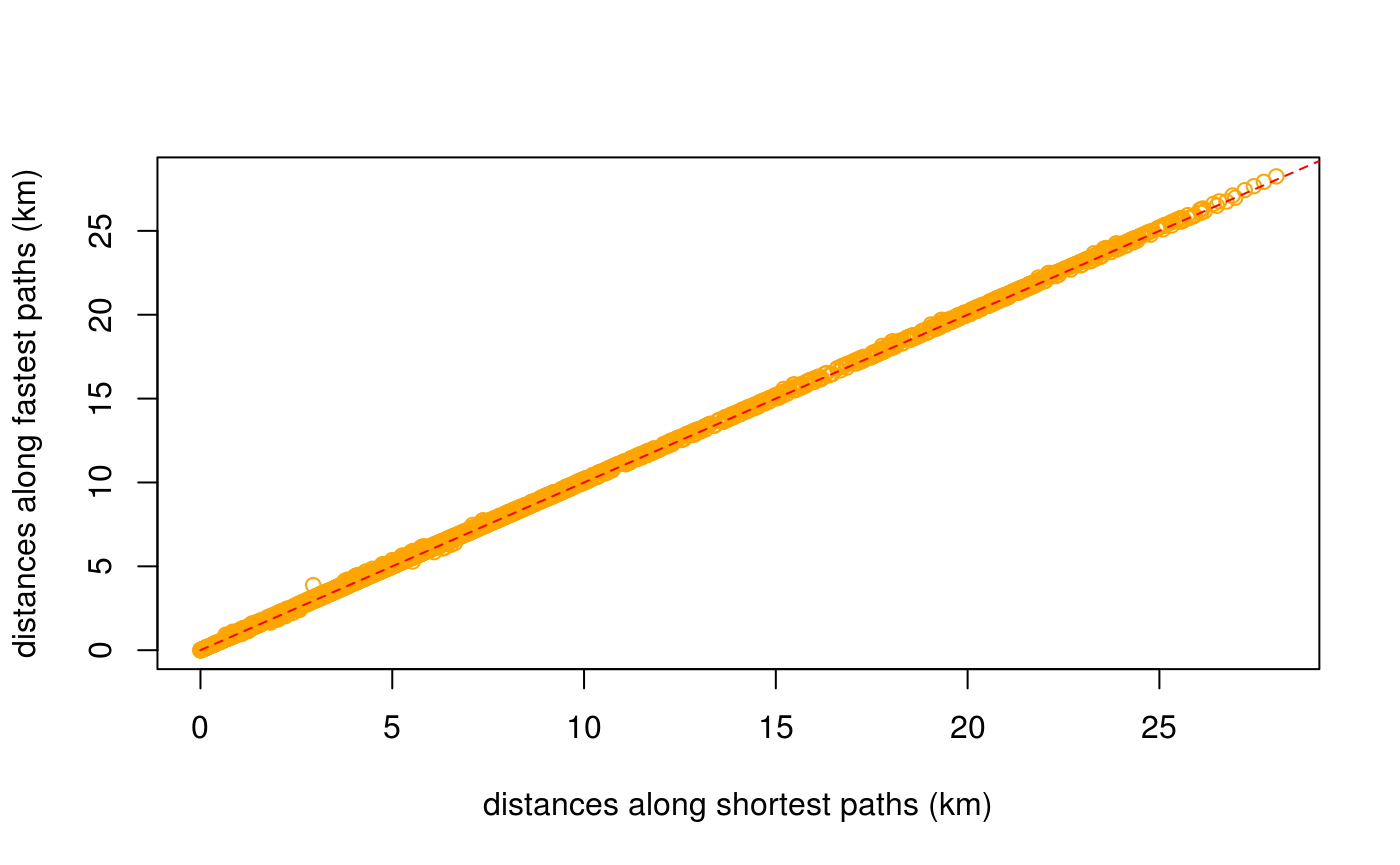
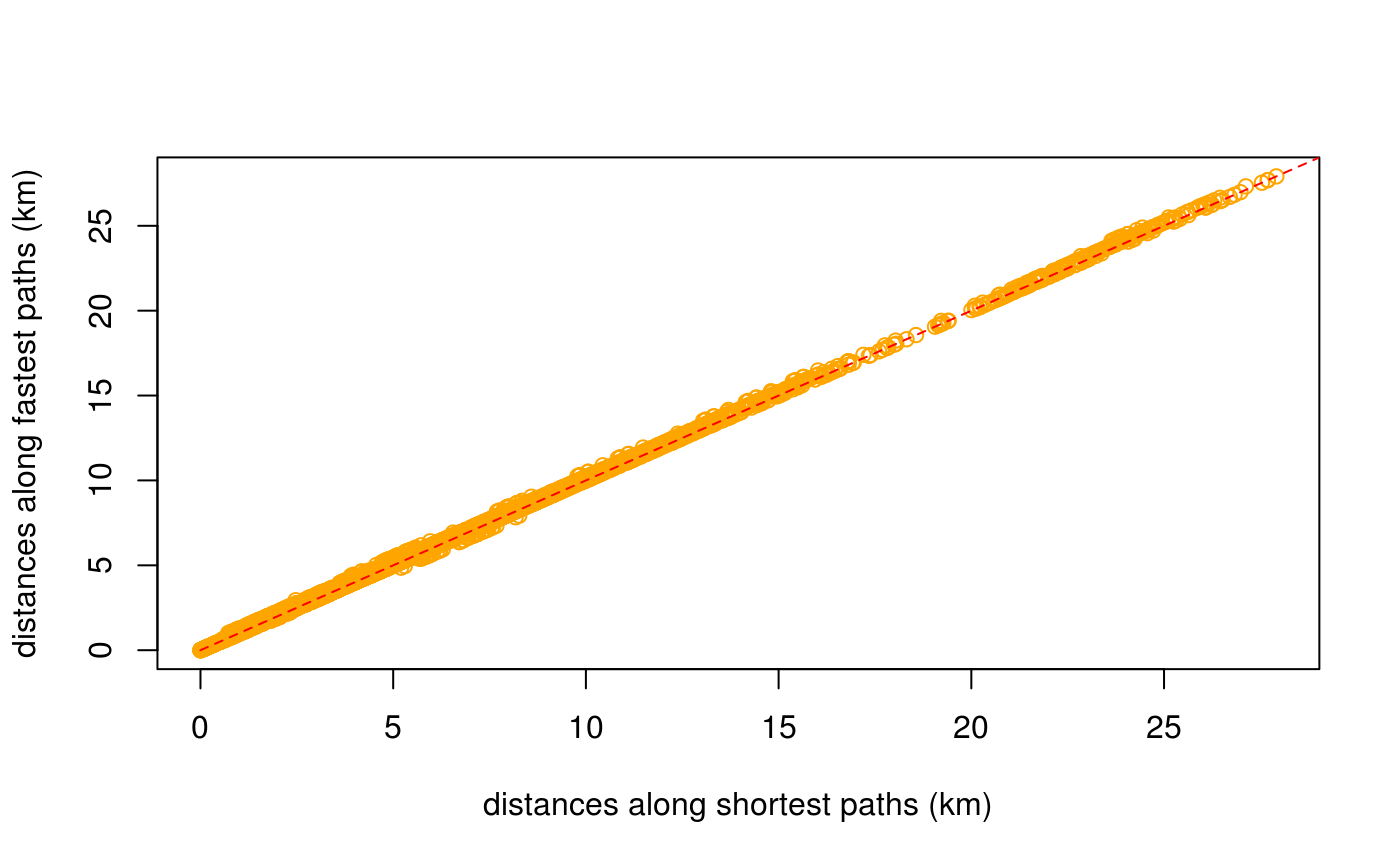
Built site for dodgr: 0.1.4.3@4a1292a

diff --git a/articles/dodgr.html b/articles/dodgr.html
@@ -343,7 +343,7 @@ Figure 2: A <strong>dual</strong>-weighted, directed graph in which the weights 
 <p>The <code>dodgr</code> packages includes a function to select a random connected portion of graph including a specified number of vertices. This function is used in the <code><a href="../reference/compare_heaps.html">compare_heaps()</a></code> function described below, but is also useful for general statistical analyses of large graphs which may otherwise take too long to compute.</p>
 <div class="sourceCode" id="cb59"><pre class="sourceCode r"><code class="sourceCode r"><a class="sourceLine" id="cb59-1" data-line-number="1">graph_sub &lt;-<span class="st"> </span><span class="kw"><a href="../reference/dodgr_sample.html">dodgr_sample</a></span> (graph, <span class="dt">nverts =</span> <span class="dv">100</span>)</a>
 <a class="sourceLine" id="cb59-2" data-line-number="2"><span class="kw"><a href="https://www.rdocumentation.org/packages/base/topics/nrow">nrow</a></span> (graph_sub)</a></code></pre></div>
-<pre><code>## [1] 197</code></pre>
+<pre><code>## [1] 215</code></pre>
 <p>The random sample has around twice as many edges as vertices, in accordance with the statistics calculated above.</p>
 <div class="sourceCode" id="cb61"><pre class="sourceCode r"><code class="sourceCode r"><a class="sourceLine" id="cb61-1" data-line-number="1"><span class="kw"><a href="https://www.rdocumentation.org/packages/base/topics/nrow">nrow</a></span> (<span class="kw"><a href="../reference/dodgr_vertices.html">dodgr_vertices</a></span> (graph_sub))</a></code></pre></div>
 <pre><code>## [1] 100</code></pre>
@@ -421,30 +421,30 @@ Figure 2: A <strong>dual</strong>-weighted, directed graph in which the weights 
 <div class="sourceCode" id="cb77"><pre class="sourceCode r"><code class="sourceCode r"><a class="sourceLine" id="cb77-1" data-line-number="1"><span class="kw"><a href="../reference/compare_heaps.html">compare_heaps</a></span> (graph, <span class="dt">nverts =</span> <span class="dv">100</span>, <span class="dt">replications =</span> <span class="dv">1</span>)</a></code></pre></div>
 <pre><code>##                                                                                   test
 ## 12                  d &lt;- igraph::distances(igr, v = from_id, to = to_id, mode = "out")
-## 5                 d &lt;- dodgr_dists(graph, from = from_id, to = to_id, heap = "Heap23")
 ## 6       d &lt;- dodgr_dists(graph_contracted, from = from_id, to = to_id, heap = "BHeap")
 ## 7       d &lt;- dodgr_dists(graph_contracted, from = from_id, to = to_id, heap = "FHeap")
 ## 8     d &lt;- dodgr_dists(graph_contracted, from = from_id, to = to_id, heap = "TriHeap")
 ## 9  d &lt;- dodgr_dists(graph_contracted, from = from_id, to = to_id, heap = "TriHeapExt")
 ## 10     d &lt;- dodgr_dists(graph_contracted, from = from_id, to = to_id, heap = "Heap23")
 ## 11        d &lt;- dodgr_dists(graph_contracted, from = from_id, to = to_id, heap = "set")
-## 4             d &lt;- dodgr_dists(graph, from = from_id, to = to_id, heap = "TriHeapExt")
-## 1                  d &lt;- dodgr_dists(graph, from = from_id, to = to_id, heap = "BHeap")
+## 5                 d &lt;- dodgr_dists(graph, from = from_id, to = to_id, heap = "Heap23")
 ## 2                  d &lt;- dodgr_dists(graph, from = from_id, to = to_id, heap = "FHeap")
 ## 3                d &lt;- dodgr_dists(graph, from = from_id, to = to_id, heap = "TriHeap")
+## 4             d &lt;- dodgr_dists(graph, from = from_id, to = to_id, heap = "TriHeapExt")
+## 1                  d &lt;- dodgr_dists(graph, from = from_id, to = to_id, heap = "BHeap")
 ##    replications elapsed relative user.self sys.self user.child sys.child
 ## 12            1   0.001        1     0.004        0          0         0
-## 5             1   0.002        2     0.004        0          0         0
 ## 6             1   0.002        2     0.000        0          0         0
 ## 7             1   0.002        2     0.004        0          0         0
-## 8             1   0.002        2     0.004        0          0         0
-## 9             1   0.002        2     0.000        0          0         0
+## 8             1   0.002        2     0.000        0          0         0
+## 9             1   0.002        2     0.004        0          0         0
 ## 10            1   0.002        2     0.004        0          0         0
-## 11            1   0.002        2     0.004        0          0         0
-## 4             1   0.003        3     0.004        0          0         0
-## 1             1   0.004        4     0.004        0          0         0
+## 11            1   0.002        2     0.000        0          0         0
+## 5             1   0.003        3     0.000        0          0         0
 ## 2             1   0.004        4     0.004        0          0         0
-## 3             1   0.004        4     0.004        0          0         0</code></pre>
+## 3             1   0.004        4     0.004        0          0         0
+## 4             1   0.004        4     0.000        0          0         0
+## 1             1   0.005        5     0.008        0          0         0</code></pre>
 <p>The key column of that <code>data.frame</code> is <code>relative</code>, which quantifies the relative performance of each test in relation to the best which is given a score of 1. <code>dodgr</code> using the default <code>heap = "BHeap"</code>, which is a binary heap priority queue, performs faster than <code>igraph</code> <span class="citation">(Csardi and Nepusz 2006)</span> for these graphs. Different kind of graphs will perform differently with different priority queue structures, and this function enables users to empirically discern the optimal heap for their kind of graph.</p>
 <p>Note, however, that this is not an entirely fair comparison, because <code>dodgr</code> calculates dual-weighted distances, whereas <code>igraph</code>—and indeed all other <strong>R</strong> packages—only directly calculate distances based on a single set of weights. Implementing dual-weighted routing in these cases requires explicitly re-tracing all paths and summing the second set of weights along each path. A time comparison in that case would be very strongly in favour of <code>dodgr</code>. Moreover, <code>dodgr</code> can convert graphs to contracted form through removing redundant vertices, as detailed in the following section. Doing so greatly improves performance with respect to <code>igraph</code>.</p>
 <p>For those wishing to do explicit comparisons themselves, the following code generates the <code>igraph</code> equivalent of <code><a href="../reference/dodgr_dists.html">dodgr_dists()</a></code>, although of course for single-weighted graphs only:</p>
@@ -497,11 +497,11 @@ Figure 3: <strong>(A)</strong> Vertex#2 is redundant for routing calculations fr
 <pre><code>## [1] 672</code></pre>
 <div class="sourceCode" id="cb89"><pre class="sourceCode r"><code class="sourceCode r"><a class="sourceLine" id="cb89-1" data-line-number="1">verts &lt;-<span class="st"> </span><span class="kw"><a href="https://www.rdocumentation.org/packages/base/topics/sample">sample</a></span> (<span class="kw"><a href="../reference/dodgr_vertices.html">dodgr_vertices</a></span> (graph)<span class="op">$</span>id, <span class="dt">size =</span> <span class="dv">100</span>)</a>
 <a class="sourceLine" id="cb89-2" data-line-number="2"><span class="kw"><a href="https://www.rdocumentation.org/packages/utils/topics/head">head</a></span> (verts) <span class="co"># a character vector</span></a></code></pre></div>
-<pre><code>## [1] "3697938720" "1143452159" "1376768467" "339318487"  "1427594112"
-## [6] "2398958027"</code></pre>
+<pre><code>## [1] "677638770"  "2627436881" "1143452159" "2398957641" "977490073" 
+## [6] "1376768352"</code></pre>
 <div class="sourceCode" id="cb91"><pre class="sourceCode r"><code class="sourceCode r"><a class="sourceLine" id="cb91-1" data-line-number="1">grc &lt;-<span class="st"> </span><span class="kw"><a href="../reference/dodgr_contract_graph.html">dodgr_contract_graph</a></span> (graph, verts)</a>
 <a class="sourceLine" id="cb91-2" data-line-number="2"><span class="kw"><a href="https://www.rdocumentation.org/packages/base/topics/nrow">nrow</a></span> (grc)</a></code></pre></div>
-<pre><code>## [1] 854</code></pre>
+<pre><code>## [1] 856</code></pre>
 <p>Retaining the nominated vertices yields a graph with considerably more edges than the fully contracted graph excluding these vertices. The <code><a href="../reference/dodgr_dists.html">dodgr_dists()</a></code> function can be applied to the latter graph to obtain accurate distances precisely routed between these points, yet using the speed advantages of graph contraction.</p>
 </div>
 </div>
@@ -542,29 +542,19 @@ Figure 3: <strong>(A)</strong> Vertex#2 is redundant for routing calculations fr
 <pre><code>## [1] 10</code></pre>
 <p>The result (<code>dp</code>) is a list of 10 items, each of which contains 5 vectors. An example is,</p>
 <div class="sourceCode" id="cb98"><pre class="sourceCode r"><code class="sourceCode r"><a class="sourceLine" id="cb98-1" data-line-number="1">dp [[<span class="dv">1</span>]] [[<span class="dv">1</span>]]</a></code></pre></div>
-<pre><code>##  [1] "1143452220" "1143452396" "977490089"  "1143452544" "1143452159"
-##  [6] "1143452278" "977490059"  "1143452367" "1143452068" "977490136" 
-## [11] "2627444774" "571423170"  "2627444775" "3921514718" "571423169" 
-## [16] "571423164"  "571423157"  "2627444773" "2627444772" "2627444771"
-## [21] "571423824"  "571423823"  "571423821"  "571423820"  "1143452467"
-## [26] "2627444770" "571423819"  "1143452332" "571423818"  "571423815" 
-## [31] "571423809"  "1143452536" "1143452116" "571423799"  "1143452264"
-## [36] "571423793"  "2627444769" "571423788"  "571423786"  "571423785" 
-## [41] "571423784"  "571423783"  "571423782"  "571423781"  "571423780" 
-## [46] "2632626808" "5358983987" "5358983989" "2632626787" "2632626794"
-## [51] "571423776"  "571423775"  "571423774"  "571423773"  "571423772" 
-## [56] "571423771"  "571423770"</code></pre>
+<pre><code>##  [1] "339574316"  "339574317"  "3456932072" "3456932071" "3456932070"
+##  [6] "2627477679" "2627477677" "2627477680" "2627477681" "4474520825"</code></pre>
 <p>For spatial graphs, the coordinates of these paths can be obtained by extracting the vertices with <code><a href="../reference/dodgr_vertices.html">dodgr_vertices()</a></code> and matching the vertex IDs:</p>
 <div class="sourceCode" id="cb100"><pre class="sourceCode r"><code class="sourceCode r"><a class="sourceLine" id="cb100-1" data-line-number="1">verts &lt;-<span class="st"> </span><span class="kw"><a href="../reference/dodgr_vertices.html">dodgr_vertices</a></span> (graph)</a>
 <a class="sourceLine" id="cb100-2" data-line-number="2">path1 &lt;-<span class="st"> </span>verts [<span class="kw"><a href="https://www.rdocumentation.org/packages/base/topics/match">match</a></span> (dp [[<span class="dv">1</span>]] [[<span class="dv">1</span>]], verts<span class="op">$</span>id), ]</a>
 <a class="sourceLine" id="cb100-3" data-line-number="3"><span class="kw"><a href="https://www.rdocumentation.org/packages/utils/topics/head">head</a></span> (path1)</a></code></pre></div>
 <pre><code>##              id        x        y component    n
-## 2132 1143452220 76.47008 15.35351         2 1079
-## 2134 1143452396 76.47013 15.35351         2 1080
-## 2136  977490089 76.47009 15.35345         2 1081
-## 2138 1143452544 76.47001 15.35338         2 1082
-## 2140 1143452159 76.46991 15.35333         2 1083
-## 2142 1143452278 76.46981 15.35322         2 1084</code></pre>
+## 482   339574316 76.46063 15.33360         1  244
+## 484   339574317 76.46078 15.33337         1  245
+## 4706 3456932072 76.46095 15.33320         1 2336
+## 4704 3456932071 76.46135 15.33298         1 2335
+## 4198 3456932070 76.46138 15.33281         1 2097
+## 4200 2627477679 76.46149 15.33284         1 2098</code></pre>
 <p>Paths calculated on contracted graphs will of course have fewer vertices than those calculated on full graphs.</p>
 </div>
 <div id="aggregated-flows" class="section level1">
@@ -608,7 +598,7 @@ Figure 3: <strong>(A)</strong> Vertex#2 is redundant for routing calculations fr
 <p>Most flows are zero because they have only been calculated between very few points in the graph.</p>
 <div class="sourceCode" id="cb105"><pre class="sourceCode r"><code class="sourceCode r"><a class="sourceLine" id="cb105-1" data-line-number="1"><span class="kw"><a href="https://www.rdocumentation.org/packages/base/topics/summary">summary</a></span> (graph_f<span class="op">$</span>flow)</a></code></pre></div>
 <pre><code>##    Min. 1st Qu.  Median    Mean 3rd Qu.    Max. 
-##   0.000   0.000   0.000   3.458   0.000  41.840</code></pre>
+##   0.000   0.000   0.000   4.725   0.000  75.935</code></pre>
 </div>
 <div id="flow-dispersal" class="section level2">
 <h2 class="hasAnchor">
@@ -618,7 +608,7 @@ Figure 3: <strong>(A)</strong> Vertex#2 is redundant for routing calculations fr
 <a class="sourceLine" id="cb107-2" data-line-number="2">graph_f &lt;-<span class="st"> </span><span class="kw"><a href="../reference/dodgr_flows_disperse.html">dodgr_flows_disperse</a></span> (graph, <span class="dt">from =</span> from, <span class="dt">dens =</span> dens)</a>
 <a class="sourceLine" id="cb107-3" data-line-number="3"><span class="kw"><a href="https://www.rdocumentation.org/packages/base/topics/summary">summary</a></span> (graph_f<span class="op">$</span>flow)</a></code></pre></div>
 <pre><code>##      Min.   1st Qu.    Median      Mean   3rd Qu.      Max. 
-## 0.000e+00 0.000e+00 0.000e+00 2.134e-06 0.000e+00 6.685e-03</code></pre>
+## 0.000e+00 0.000e+00 0.000e+00 1.904e-05 0.000e+00 6.037e-02</code></pre>
 </div>
 <div id="merging-directed-flows" class="section level2">
 <h2 class="hasAnchor">
@@ -628,7 +618,7 @@ Figure 3: <strong>(A)</strong> Vertex#2 is redundant for routing calculations fr
 <p>Resultant graphs produced by <code><a href="../reference/merge_directed_flows.html">merge_directed_flows()</a></code> only include those edges having non-zero flows, and so:</p>
 <div class="sourceCode" id="cb110"><pre class="sourceCode r"><code class="sourceCode r"><a class="sourceLine" id="cb110-1" data-line-number="1"><span class="kw"><a href="https://www.rdocumentation.org/packages/base/topics/nrow">nrow</a></span> (graph_f); <span class="kw"><a href="https://www.rdocumentation.org/packages/base/topics/nrow">nrow</a></span> (graph_undir) <span class="co"># the latter is much smaller</span></a></code></pre></div>
 <pre><code>## [1] 5973</code></pre>
-<pre><code>## [1] 1799</code></pre>
+<pre><code>## [1] 1845</code></pre>
 <p>The resultant graph can readily be merged with the original graph to regain the original data on vertex coordinates through</p>
 <div class="sourceCode" id="cb113"><pre class="sourceCode r"><code class="sourceCode r"><a class="sourceLine" id="cb113-1" data-line-number="1">graph &lt;-<span class="st"> </span>graph [graph_undir<span class="op">$</span>edge_id, ]</a>
 <a class="sourceLine" id="cb113-2" data-line-number="2">graph<span class="op">$</span>flow &lt;-<span class="st"> </span>graph_undir<span class="op">$</span>flow</a></code></pre></div>

diff --git a/articles/times.html b/articles/times.html
@@ -233,11 +233,11 @@ Figure 1: Graph modification to account for turn angles, which introduces the ad
 <p><img src="times_files/figure-html/shortest-vs-fastest-1.png" width="700"></p>
 <p>The average distance between the two (in metres) is:</p>
 <div class="sourceCode" id="cb11"><pre class="sourceCode r"><code class="sourceCode r"><a class="sourceLine" id="cb11-1" data-line-number="1"><span class="kw"><a href="https://www.rdocumentation.org/packages/base/topics/mean">mean</a></span> (<span class="kw"><a href="https://www.rdocumentation.org/packages/base/topics/MathFun">abs</a></span> (d_time <span class="op">-</span><span class="st"> </span>d_dist), <span class="dt">na.rm =</span> <span class="ot">TRUE</span>)</a></code></pre></div>
-<pre><code>## [1] 45.03473</code></pre>
+<pre><code>## [1] 50.63347</code></pre>
 <p>The plot reveals that shortest distances are indeed somewhat shorter than distances along fastest paths, but also that some fastest paths are actually shorter than shortest paths:</p>
 <div class="sourceCode" id="cb13"><pre class="sourceCode r"><code class="sourceCode r"><a class="sourceLine" id="cb13-1" data-line-number="1">index &lt;-<span class="st"> </span><span class="kw"><a href="https://www.rdocumentation.org/packages/base/topics/which">which</a></span> (<span class="op">!</span><span class="kw"><a href="https://www.rdocumentation.org/packages/base/topics/NA">is.na</a></span> (d_time) <span class="op">&amp;</span><span class="st"> </span><span class="op">!</span><span class="kw"><a href="https://www.rdocumentation.org/packages/base/topics/NA">is.na</a></span> (d_dist))</a>
 <a class="sourceLine" id="cb13-2" data-line-number="2"><span class="kw"><a href="https://www.rdocumentation.org/packages/base/topics/length">length</a></span> (<span class="kw"><a href="https://www.rdocumentation.org/packages/base/topics/which">which</a></span> (d_time [index] <span class="op">&lt;</span><span class="st"> </span>d_dist [index])) <span class="op">/</span><span class="st"> </span><span class="kw"><a href="https://www.rdocumentation.org/packages/base/topics/length">length</a></span> (index)</a></code></pre></div>
-<pre><code>## [1] 0.01075458</code></pre>
+<pre><code>## [1] 0.02341832</code></pre>
 <p>While <code>dodgr</code> and indeed all routing engines attempt to maximally reconcile differences between fastest and shortest routes, there nevertheless remain important discrepancies. Foremost among these, and the primary reason why some fastest routes may in fact be shorter than shortest routes, is that fastest routes allocate preferences for different kinds of way based both on the <code>value</code> column in the <code>weighting_profiles$weighting_profiles</code> table illustrated above, and on the actual maximum speed of a given edge, which itself may be a combination of maximum speeds as specified in OSM itself, maximum speeds from the <code>weighting_profiles$weighting_profiles</code> table, or values specific to a given surface. The result is that some unique combination of maximum speeds along a network may lead to <em>fastest</em> routes being preferentially directed along a path that is actually shorter than the direct shortest path which is calculated independent of maximum speed values.</p>
 <p>Such discrepancies are important in understanding differences in routes <em>times</em> calculated along shortest versus fastest paths. These times can be calculated (in seconds) with the <a href="https://atfutures.github.io/dodgr/reference/dodgr_times.html"><code><a href="../reference/dodgr_times.html">dodgr_times()</a></code></a> function:</p>
 <div class="sourceCode" id="cb15"><pre class="sourceCode r"><code class="sourceCode r"><a class="sourceLine" id="cb15-1" data-line-number="1">t_dist &lt;-<span class="st"> </span><span class="kw"><a href="../reference/dodgr_times.html">dodgr_times</a></span> (graph, <span class="dt">from =</span> from, <span class="dt">to =</span> to, <span class="dt">shortest =</span> <span class="ot">TRUE</span>) <span class="co"># default</span></a>
@@ -248,11 +248,11 @@ Figure 1: Graph modification to account for turn angles, which introduces the ad
 <a class="sourceLine" id="cb15-6" data-line-number="6"><span class="kw"><a href="https://www.rdocumentation.org/packages/graphics/topics/lines">lines</a></span> (<span class="dv">0</span><span class="op">:</span><span class="dv">100</span>, <span class="dv">0</span><span class="op">:</span><span class="dv">100</span>, <span class="dt">col =</span> <span class="st">"red"</span>, <span class="dt">lty =</span> <span class="dv">2</span>)</a></code></pre></div>
 <p><img src="times_files/figure-html/shortest-vs-fastest-times-1.png" width="700"></p>
 <div class="sourceCode" id="cb16"><pre class="sourceCode r"><code class="sourceCode r"><a class="sourceLine" id="cb16-1" data-line-number="1"><span class="kw"><a href="https://www.rdocumentation.org/packages/base/topics/mean">mean</a></span> (<span class="kw"><a href="https://www.rdocumentation.org/packages/base/topics/MathFun">abs</a></span> (t_time <span class="op">-</span><span class="st"> </span>t_dist), <span class="dt">na.rm =</span> <span class="ot">TRUE</span>)</a></code></pre></div>
-<pre><code>## [1] 41.86555</code></pre>
+<pre><code>## [1] 50.12588</code></pre>
 <p>As above, times along fastest paths are generally less than times along shortest paths, although there are again a few exceptions:</p>
 <div class="sourceCode" id="cb18"><pre class="sourceCode r"><code class="sourceCode r"><a class="sourceLine" id="cb18-1" data-line-number="1">index &lt;-<span class="st"> </span><span class="kw"><a href="https://www.rdocumentation.org/packages/base/topics/which">which</a></span> (<span class="op">!</span><span class="kw"><a href="https://www.rdocumentation.org/packages/base/topics/NA">is.na</a></span> (t_time) <span class="op">&amp;</span><span class="st"> </span><span class="op">!</span><span class="kw"><a href="https://www.rdocumentation.org/packages/base/topics/NA">is.na</a></span> (t_dist))</a>
 <a class="sourceLine" id="cb18-2" data-line-number="2"><span class="kw"><a href="https://www.rdocumentation.org/packages/base/topics/length">length</a></span> (<span class="kw"><a href="https://www.rdocumentation.org/packages/base/topics/which">which</a></span> (t_dist [index] <span class="op">&lt;</span><span class="st"> </span>t_time [index])) <span class="op">/</span><span class="st"> </span><span class="kw"><a href="https://www.rdocumentation.org/packages/base/topics/length">length</a></span> (index)</a></code></pre></div>
-<pre><code>## [1] 0.01251763</code></pre>
+<pre><code>## [1] 0.02870633</code></pre>
 <p>These results demonstrate how the combination of the <a href="https://atfutures.github.io/dodgr/reference/dodgr_distances.html"><code><a href="../reference/dodgr_distances.html">dodgr_distances()</a></code></a> and <a href="https://atfutures.github.io/dodgr/reference/dodgr_times.html"><code><a href="../reference/dodgr_times.html">dodgr_times()</a></code></a> functions enable calculation of both distances and times along both shortest and fastest paths.</p>
 <div id="time-based-paths-and-flow-aggregation" class="section level2">
 <h2 class="hasAnchor">

diff --git a/reference/compare_heaps.html b/reference/compare_heaps.html
@@ -155,30 +155,30 @@ fair comparisons, run only once or re-start the current R session.</p>
     <pre class="examples"><div class='input'><span class='no'>graph</span> <span class='kw'>&lt;-</span> <span class='fu'><a href='weight_streetnet.html'>weight_streetnet</a></span> (<span class='no'>hampi</span>)
 <span class='fu'>compare_heaps</span> (<span class='no'>graph</span>, <span class='kw'>nverts</span> <span class='kw'>=</span> <span class='fl'>1000</span>, <span class='kw'>replications</span> <span class='kw'>=</span> <span class='fl'>1</span>)</div><div class='output co'>#&gt;                                                                                   test
 #&gt; 6       d &lt;- dodgr_dists(graph_contracted, from = from_id, to = to_id, heap = "BHeap")
+#&gt; 10     d &lt;- dodgr_dists(graph_contracted, from = from_id, to = to_id, heap = "Heap23")
 #&gt; 11        d &lt;- dodgr_dists(graph_contracted, from = from_id, to = to_id, heap = "set")
 #&gt; 7       d &lt;- dodgr_dists(graph_contracted, from = from_id, to = to_id, heap = "FHeap")
 #&gt; 8     d &lt;- dodgr_dists(graph_contracted, from = from_id, to = to_id, heap = "TriHeap")
-#&gt; 10     d &lt;- dodgr_dists(graph_contracted, from = from_id, to = to_id, heap = "Heap23")
 #&gt; 9  d &lt;- dodgr_dists(graph_contracted, from = from_id, to = to_id, heap = "TriHeapExt")
 #&gt; 12                  d &lt;- igraph::distances(igr, v = from_id, to = to_id, mode = "out")
 #&gt; 1                  d &lt;- dodgr_dists(graph, from = from_id, to = to_id, heap = "BHeap")
 #&gt; 2                  d &lt;- dodgr_dists(graph, from = from_id, to = to_id, heap = "FHeap")
-#&gt; 3                d &lt;- dodgr_dists(graph, from = from_id, to = to_id, heap = "TriHeap")
 #&gt; 5                 d &lt;- dodgr_dists(graph, from = from_id, to = to_id, heap = "Heap23")
+#&gt; 3                d &lt;- dodgr_dists(graph, from = from_id, to = to_id, heap = "TriHeap")
 #&gt; 4             d &lt;- dodgr_dists(graph, from = from_id, to = to_id, heap = "TriHeapExt")
 #&gt;    replications elapsed relative user.self sys.self user.child sys.child
-#&gt; 6             1   0.010      1.0     0.016        0          0         0
-#&gt; 11            1   0.010      1.0     0.016        0          0         0
-#&gt; 7             1   0.012      1.2     0.020        0          0         0
-#&gt; 8             1   0.012      1.2     0.020        0          0         0
-#&gt; 10            1   0.013      1.3     0.024        0          0         0
-#&gt; 9             1   0.014      1.4     0.016        0          0         0
-#&gt; 12            1   0.024      2.4     0.024        0          0         0
-#&gt; 1             1   0.037      3.7     0.064        0          0         0
-#&gt; 2             1   0.050      5.0     0.088        0          0         0
-#&gt; 3             1   0.051      5.1     0.092        0          0         0
-#&gt; 5             1   0.051      5.1     0.092        0          0         0
-#&gt; 4             1   0.059      5.9     0.060        0          0         0</div></pre>
+#&gt; 6             1   0.005      1.0     0.004        0          0         0
+#&gt; 10            1   0.005      1.0     0.008        0          0         0
+#&gt; 11            1   0.005      1.0     0.008        0          0         0
+#&gt; 7             1   0.006      1.2     0.008        0          0         0
+#&gt; 8             1   0.006      1.2     0.012        0          0         0
+#&gt; 9             1   0.006      1.2     0.008        0          0         0
+#&gt; 12            1   0.014      2.8     0.012        0          0         0
+#&gt; 1             1   0.025      5.0     0.036        0          0         0
+#&gt; 2             1   0.032      6.4     0.056        0          0         0
+#&gt; 5             1   0.032      6.4     0.056        0          0         0
+#&gt; 3             1   0.033      6.6     0.056        0          0         0
+#&gt; 4             1   0.038      7.6     0.036        0          0         0</div></pre>
   </div>
   <div class="col-md-3 hidden-xs hidden-sm" id="sidebar">
     <h2>Contents</h2>

diff --git a/reference/dodgr_sample.html b/reference/dodgr_sample.html
@@ -141,7 +141,7 @@ the requested <code>nverts</code>.</p>
     <h2 class="hasAnchor" id="examples"><a class="anchor" href="#examples"></a>Examples</h2>
     <pre class="examples"><div class='input'><span class='no'>graph</span> <span class='kw'>&lt;-</span> <span class='fu'><a href='weight_streetnet.html'>weight_streetnet</a></span> (<span class='no'>hampi</span>)
 <span class='fu'><a href='https://www.rdocumentation.org/packages/base/topics/nrow'>nrow</a></span> (<span class='no'>graph</span>) <span class='co'># 5,742</span></div><div class='output co'>#&gt; [1] 5973</div><div class='input'><span class='no'>graph</span> <span class='kw'>&lt;-</span> <span class='fu'>dodgr_sample</span> (<span class='no'>graph</span>, <span class='kw'>nverts</span> <span class='kw'>=</span> <span class='fl'>200</span>)
-<span class='fu'><a href='https://www.rdocumentation.org/packages/base/topics/nrow'>nrow</a></span> (<span class='no'>graph</span>) <span class='co'># generally around 400 edges</span></div><div class='output co'>#&gt; [1] 410</div><div class='input'><span class='fu'><a href='https://www.rdocumentation.org/packages/base/topics/nrow'>nrow</a></span> (<span class='fu'><a href='dodgr_vertices.html'>dodgr_vertices</a></span> (<span class='no'>graph</span>)) <span class='co'># 200</span></div><div class='output co'>#&gt; [1] 200</div></pre>
+<span class='fu'><a href='https://www.rdocumentation.org/packages/base/topics/nrow'>nrow</a></span> (<span class='no'>graph</span>) <span class='co'># generally around 400 edges</span></div><div class='output co'>#&gt; [1] 415</div><div class='input'><span class='fu'><a href='https://www.rdocumentation.org/packages/base/topics/nrow'>nrow</a></span> (<span class='fu'><a href='dodgr_vertices.html'>dodgr_vertices</a></span> (<span class='no'>graph</span>)) <span class='co'># 200</span></div><div class='output co'>#&gt; [1] 200</div></pre>
   </div>
   <div class="col-md-3 hidden-xs hidden-sm" id="sidebar">
     <h2>Contents</h2>

diff --git a/index.html b/index.html
@@ -511,7 +511,7 @@
 <td align="right">1</td>
 <td align="right">95.358362</td>
 <td align="right">119.197952</td>
-<td align="right">8.229476</td>
+<td align="right">15.99322</td>
 </tr>
 <tr class="even">
 <td align="right">1</td>
@@ -529,7 +529,7 @@
 <td align="right">1</td>
 <td align="right">95.358362</td>
 <td align="right">119.197952</td>
-<td align="right">0.000000</td>
+<td align="right">0.00000</td>
 </tr>
 <tr class="odd">
 <td align="right">1</td>
@@ -547,7 +547,7 @@
 <td align="right">1</td>
 <td align="right">6.399843</td>
 <td align="right">7.999803</td>
-<td align="right">8.229476</td>
+<td align="right">15.99322</td>
 </tr>
 <tr class="even">
 <td align="right">1</td>
@@ -565,7 +565,7 @@
 <td align="right">1</td>
 <td align="right">6.399843</td>
 <td align="right">7.999803</td>
-<td align="right">0.000000</td>
+<td align="right">0.00000</td>
 </tr>
 <tr class="odd">
 <td align="right">1</td>
@@ -583,7 +583,7 @@
 <td align="right">1</td>
 <td align="right">6.715106</td>
 <td align="right">8.393882</td>
-<td align="right">8.229476</td>
+<td align="right">15.99322</td>
 </tr>
 <tr class="even">
 <td align="right">1</td>
@@ -601,7 +601,7 @@
 <td align="right">1</td>
 <td align="right">6.715106</td>
 <td align="right">8.393882</td>
-<td align="right">0.000000</td>
+<td align="right">0.00000</td>
 </tr>
 </tbody>
 </table>
